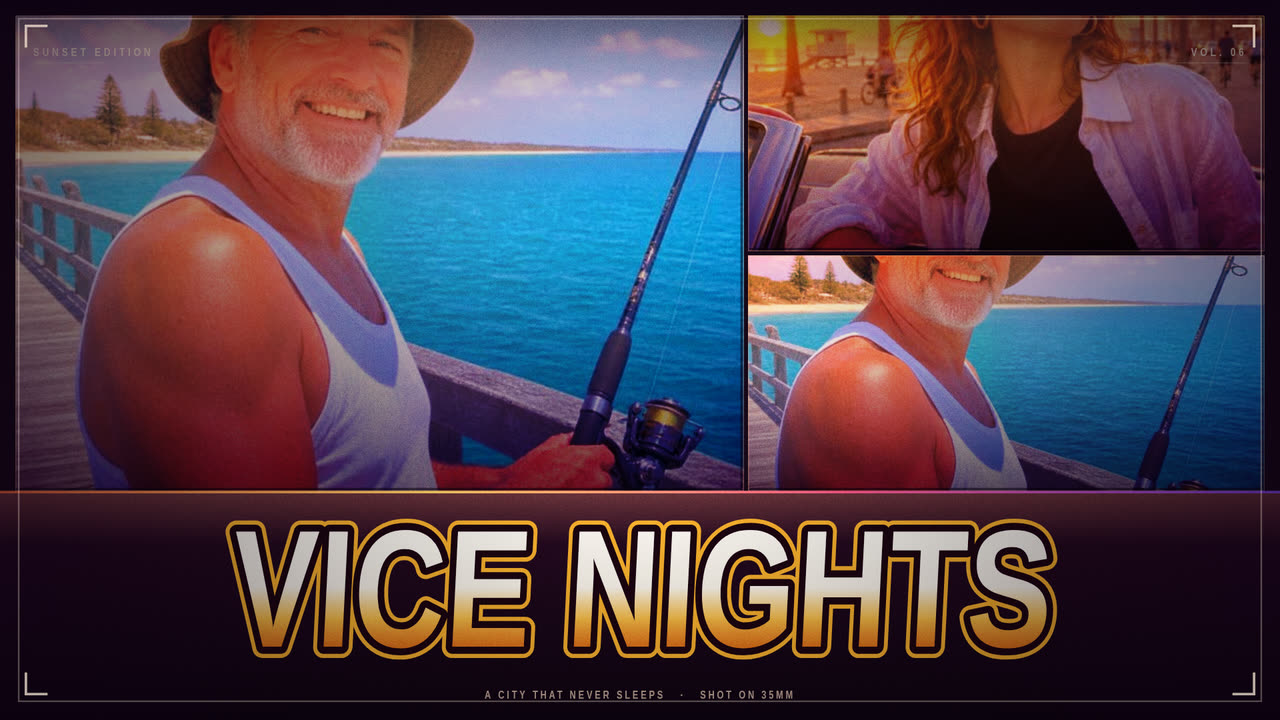
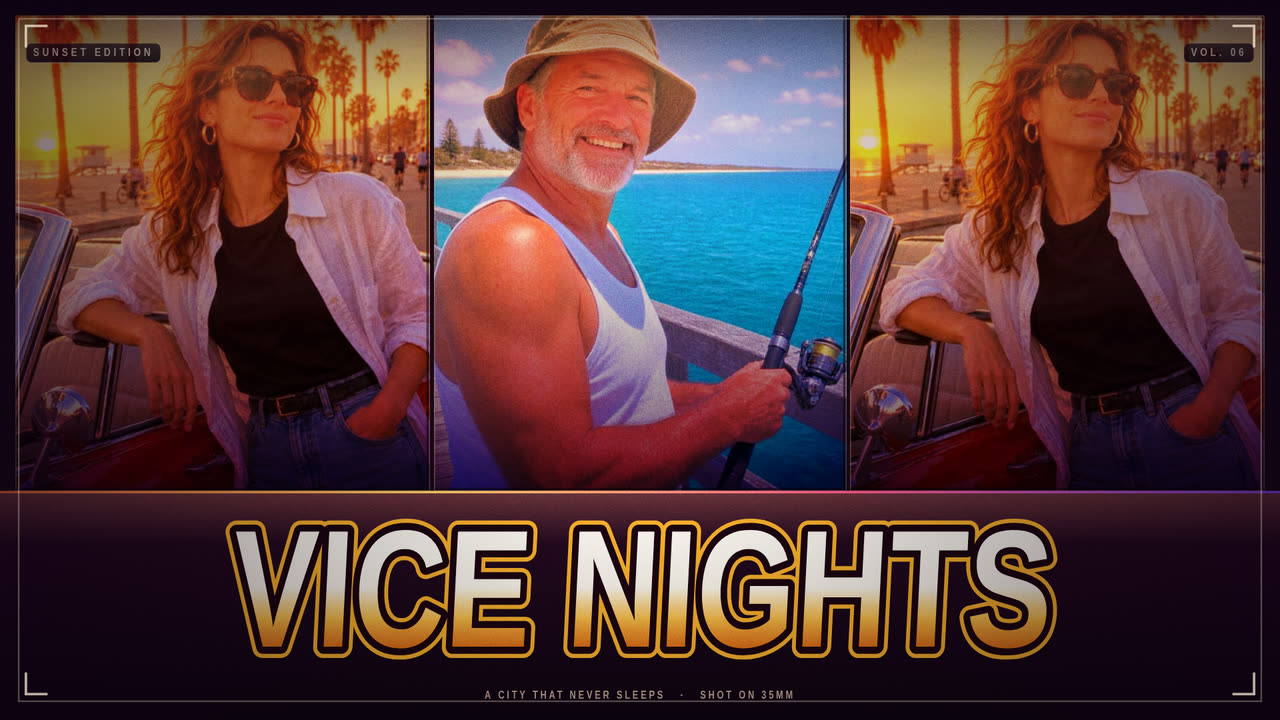
Spread one photo across a solo sheet, reshoot the screenshots on real layouts

diff --git a/app/src/render.js b/app/src/render.js
@@ -12,7 +12,7 @@
 //   5. the headline band, its rule, the caption lettering and the credit line
 //   6. grain and a vignette over the whole sheet, which binds the panels into one print
 
-import { drawCaption, drawKicker } from './lettering.js';
+import { drawCaption, drawKicker, measureKicker } from './lettering.js';
 
 const INK = '#160818';
 const BAND_TOP = '#2a0b23';
@@ -65,6 +65,28 @@ export function panelSlack(panel, photo, zoom) {
 }
 
 /**
+ * Where the crop window sits vertically.
+ *
+ * A square portrait cropped into a 16:9 panel loses most of its height, and a flat 0.42 focus
+ * then drops the window to the chest — the head comes off. When a panel throws away a big share
+ * of the frame, slide the window down from the top of the photo, far enough to hold the face band
+ * (roughly the crown third, where a portrait's eyes sit). Tall panels that keep the figure, and
+ * gentle crops, are left exactly where the layout or the user's drag put them.
+ */
+function cropFocusY(panel, slackY, requested) {
+  const slack = Math.max(0, slackY);
+  const total = slack + panel.h;
+  if (total <= 0 || slack <= 0) return requested;
+  const cropped = slack / total;          // share of the photo the crop throws away
+  const weight = Math.min(1, Math.max(0, (cropped - 0.15) / 0.30));
+  if (weight <= 0) return requested;
+  const faceBand = 0.27;                  // where eyes+chin sit, as a share of the photo height
+  const windowShare = panel.h / total;    // how much of the photo the panel keeps
+  const safe = Math.max(0, Math.min(1, (faceBand - windowShare / 2) / Math.max(0.001, 1 - windowShare)));
+  return Math.max(0, Math.min(1, requested - weight * Math.max(0, requested - safe)));
+}
+
+/**
  * Draws one photo into a panel rectangle, cover-fit, with the panel's pan and zoom applied.
  * focus/focusY: 0..1 within the slack, zoom: 1..3 multiplier on the cover scale.
  */
@@ -87,7 +109,7 @@ function drawPanelPhoto(ctx, panel, slot, photo) {
     const slackX = Math.max(0, dw - w);
     const slackY = Math.max(0, dh - h);
     const fx = slot?.focusX ?? 0.5;
-    const fy = slot?.focusY ?? 0.42;
+    const fy = cropFocusY(panel, slackY, slot?.focusY ?? 0.42);
     const dx = x - slackX * fx;
     const dy = y - slackY * fy;
     ctx.filter = 'saturate(1.62) contrast(1.22) brightness(0.97)';
@@ -194,14 +216,44 @@ function roundRect(ctx, x, y, w, h, r) {
   ctx.closePath();
 }
 
-/** The little print stamp in the top corners: volume and sheet size, in tracked caps. */
+/**
+ * The little print stamp in the top corners: volume and sheet size, in tracked caps. Each stamp
+ * rides on its own ink chip — over a bright sky the caps alone vanished, so the chip carries a
+ * dark plum fill with a hairline rim and the sun-warmed scrim above it, and the text stays legible
+ * on any photo underneath.
+ */
 function drawStamps(ctx, o, W, H, unit) {
   const pad = unit * 0.046;
   const top = unit * 0.058;
   const size = Math.max(8, unit * 0.0155);
   const ink = 'rgba(255,236,214,0.92)';
-  drawKicker(ctx, o.stampLeft || 'VICE EDITION', pad, top + size, size, ink, 'left', 0.28);
-  drawKicker(ctx, o.stampRight || 'No. 06', W - pad, top + size, size, ink, 'right', 0.28);
+  const track = 0.28;
+  const left = o.stampLeft || 'VICE EDITION';
+  const right = o.stampRight || 'No. 06';
+
+  const chipH = size * 1.72;
+  const chipPadX = size * 0.62;
+  const drawChipBack = (text, align) => {
+    const w = measureKicker(ctx, text, size, track) + chipPadX * 2;
+    const x = align === 'left' ? pad - chipPadX : W - pad - w + chipPadX;
+    const y = top + size - chipH / 2;
+    ctx.save();
+    roundRect(ctx, x, y, w, chipH, chipH * 0.28);
+    const fill = ctx.createLinearGradient(0, y, 0, y + chipH);
+    fill.addColorStop(0, 'rgba(22,6,24,0.72)');
+    fill.addColorStop(1, 'rgba(10,2,14,0.86)');
+    ctx.fillStyle = fill;
+    ctx.fill();
+    ctx.strokeStyle = 'rgba(255,228,200,0.22)';
+    ctx.lineWidth = Math.max(1, unit * 0.0011);
+    ctx.stroke();
+    ctx.restore();
+  };
+
+  drawChipBack(left, 'left');
+  drawChipBack(right, 'right');
+  drawKicker(ctx, left, pad, top + size, size, ink, 'left', track);
+  drawKicker(ctx, right, W - pad, top + size, size, ink, 'right', track);
   ctx.save();
   ctx.strokeStyle = 'rgba(255,236,214,0.42)';
   ctx.lineWidth = Math.max(1, unit * 0.0012);

diff --git a/app/src/main.js b/app/src/main.js
@@ -37,16 +37,33 @@ function template() {
   return getLayout(state.layoutId);
 }
 
+/**
+ * When a sheet has one photo, every panel would show the same crop and the collage would read as a
+ * printer error. Solo spread nudges each panel across and in, so the strips become a sequence of
+ * framings of the one frame — the way a poster repeats a face at different magnifications.
+ */
+function soloSpread(panel, index, count) {
+  if (count < 3) return null;
+  const t = count === 1 ? 0 : index / (count - 1); // 0..1 across the sheet
+  return {
+    focusX: 0.36 + t * 0.32,
+    focusY: panel.focusY,
+    zoom: panel.zoom * (0.94 + Math.sin(t * Math.PI) * 0.20),
+  };
+}
+
 /** Rebuilds the slot table for the current layout, keeping earlier crops where panels overlap. */
 function syncSlots() {
   const panels = template().panels();
+  const solo = state.photos.length === 1;
   const next = panels.map((p, i) => {
     const prev = state.slots[i];
+    const spread = solo ? soloSpread(p, i, panels.length) : null;
     return {
       photoIndex: prev?.photoIndex ?? i % Math.max(1, state.photos.length),
-      focusX: prev?.focusX ?? p.focusX,
+      focusX: prev?.focusX ?? spread?.focusX ?? p.focusX,
       focusY: prev?.focusY ?? p.focusY,
-      zoom: prev?.zoom ?? p.zoom,
+      zoom: prev?.zoom ?? spread?.zoom ?? p.zoom,
     };
   });
   state.slots = next;

diff --git a/app/src/lettering.js b/app/src/lettering.js
@@ -189,3 +189,15 @@ export function drawKicker(ctx, text, x, y, size, color, alignment = 'center', t
   ctx.restore();
   return width;
 }
+
+/** The width drawKicker will paint, without painting it — used to size the stamp chips. */
+export function measureKicker(ctx, text, size, tracking = 0.3) {
+  const raw = String(text ?? '').toUpperCase();
+  if (!raw.trim()) return 0;
+  ctx.save();
+  ctx.font = `700 ${Math.max(6, size)}px ${FACE}`;
+  ctx.letterSpacing = `${(size * tracking).toFixed(2)}px`;
+  const width = ctx.measureText(raw).width;
+  ctx.restore();
+  return width;
+}

diff --git a/README.md b/README.md
@@ -26,7 +26,7 @@ the sheet alone, full-window. `?shot=editor` paints the studio with the rail in 
 
 ## How the collage is built
 
-Four layouts, all authored in a unit square so the same table drives every output size:
+Five layouts, all authored in a unit square so the same table drives every output size:
 
 | Layout | Panels |
 | --- | --- |
@@ -34,6 +34,7 @@ Four layouts, all authored in a unit square so the same table drives every outpu
 | Four Strips | four narrow panels, the gig-poster look |
 | Hero + Two | one big portrait panel, two stacked beside it |
 | Five Grid | two across the top, three below |
+| Band + Three | a wide establishing band over three uprights |
 
 Every panel holds a *slot*: which photo, a focus point inside the photo's slack, and a zoom. The
 zoom is a multiplier on the cover-fit scale, so a photo never leaves a gap at the edges no matter
@@ -64,7 +65,7 @@ foot. An oblique shear of −3.4° and a `/` in the caption forces a line break.
 app/
   index.html        the studio: tray, layout cards, words, size, export
   style.css         dark plum UI, no framework
-  src/layouts.js    the four panel tables
+  src/layouts.js    the five panel tables
   src/compose.js    sheet geometry: panel rects, band share, hit testing
   src/render.js     panel painting, the grade, gutters, stamps, the headline band
   src/lettering.js  caption planning and the five-pass paint stack
